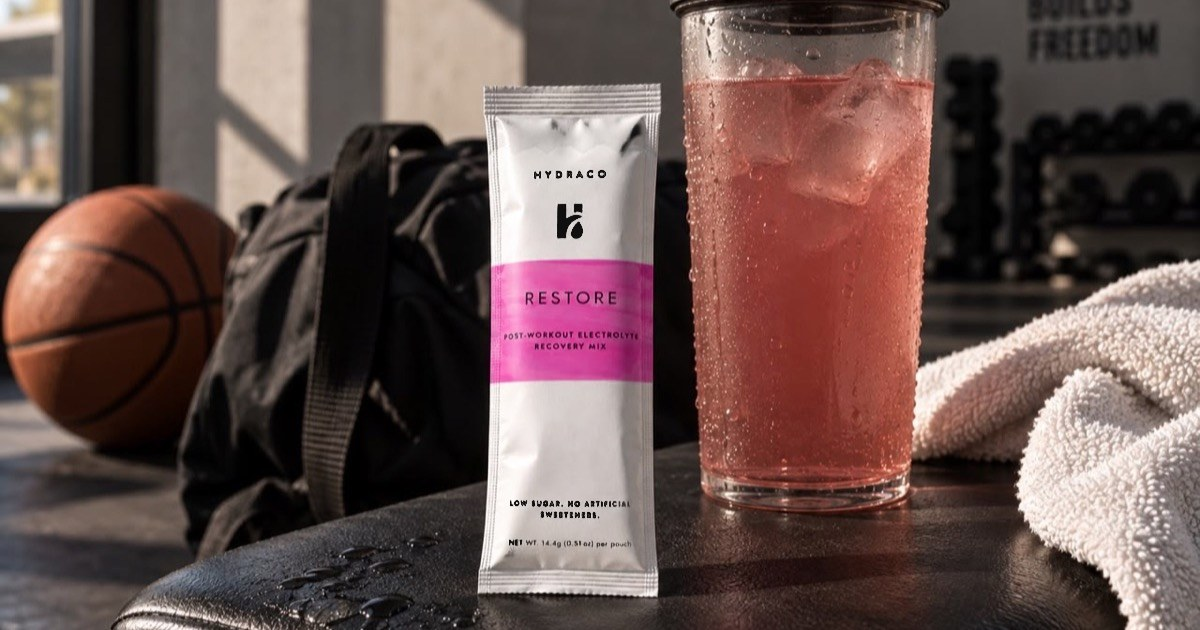
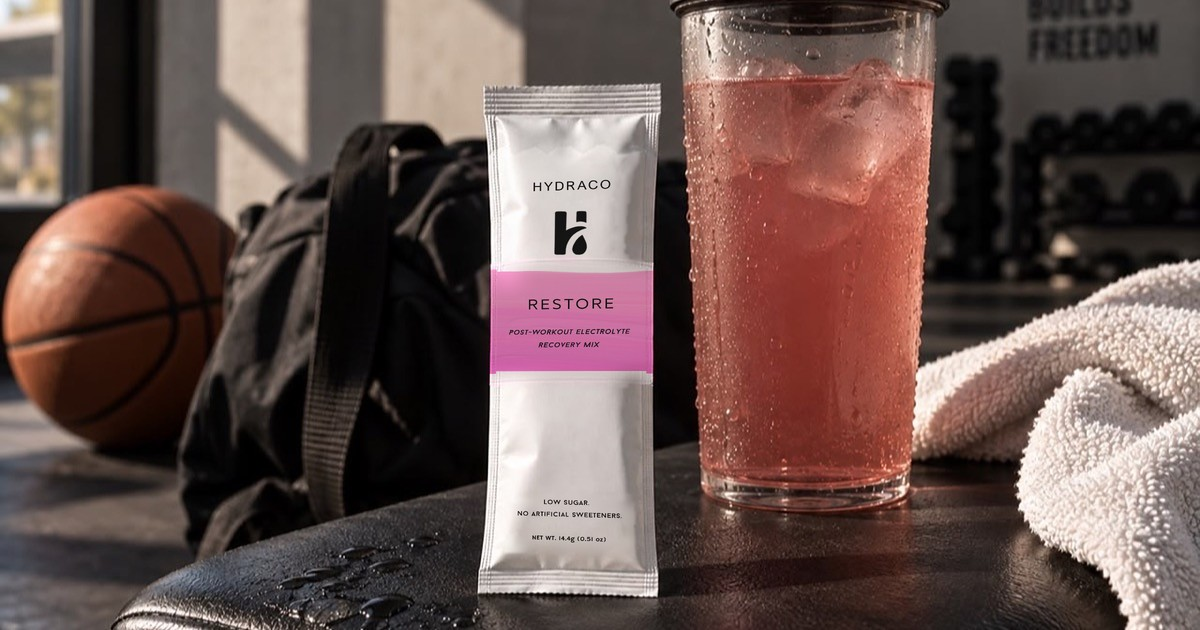
Sharp re-printed pack labels in photos; Order lands on packs and form
Re-print the new stick-pack label onto every pack in the product photos
from the high-res pack artwork (fitted to each pack's angle and lit by
the photo), saved at 2x so the type stays crisp on phones and Retina.
Move the order photo below the form and tighten the Order section so
the Order buttons land on the pack options and the fields to fill in.

Changed region(s): [[0.4008, 0.2714, 0.555, 0.6333], [0.4008, 0.7841, 0.555, 0.8746], [0.4933, 0.181, 0.555, 0.2714]]

diff --git a/index.html b/index.html
@@ -22,13 +22,13 @@
 <meta property="og:title" content="Hydraco Restore — Post-Workout Electrolyte Recovery Mix">
 <meta property="og:description" content="Hydraco Restore is a post-workout electrolyte recovery mix — low sugar, no artificial sweeteners, with tart cherry and pomegranate. Designed for recovery, not stimulation.">
 <meta property="og:url" content="https://www.drinkhydraco.com/">
-<meta property="og:image" content="https://www.drinkhydraco.com/images/og.jpg?v=pack2">
+<meta property="og:image" content="https://www.drinkhydraco.com/images/og.jpg?v=pack3">
 <meta property="og:image:width" content="1200">
 <meta property="og:image:height" content="630">
 <meta property="og:image:alt" content="A Hydraco Restore stick pack beside a glass of the prepared drink in a gym">
 <meta name="twitter:card" content="summary_large_image">
-<meta name="twitter:image" content="https://www.drinkhydraco.com/images/og.jpg?v=pack2">
-<script type="application/ld+json">[{"@context": "https://schema.org", "@type": "Organization", "name": "Hydraco", "url": "https://www.drinkhydraco.com/", "logo": "https://www.drinkhydraco.com/images/apple-touch-icon.png", "email": "hydracompanymd@gmail.com", "sameAs": ["https://www.instagram.com/hydracofficial"]}, {"@context": "https://schema.org", "@type": "Product", "name": "Hydraco Restore", "description": "Hydraco Restore is a post-workout electrolyte recovery mix — low sugar, no artificial sweeteners, with tart cherry and pomegranate. Designed for recovery, not stimulation.", "image": "https://www.drinkhydraco.com/images/og.jpg?v=pack2", "brand": {"@type": "Brand", "name": "Hydraco"}, "category": "Electrolyte drink mix", "offers": {"@type": "AggregateOffer", "priceCurrency": "USD", "lowPrice": "2.45", "highPrice": "89.55", "offerCount": 4, "availability": "https://schema.org/InStock", "url": "https://www.drinkhydraco.com/#order"}}, {"@context": "https://schema.org", "@type": "FAQPage", "mainEntity": [{"@type": "Question", "name": "How do I use it?", "acceptedAnswer": {"@type": "Answer", "text": "Pour one stick pack into 16–32 oz of cold water, shake or stir, and drink it after training. One stick is one serving."}}, {"@type": "Question", "name": "How do I pay?", "acceptedAnswer": {"@type": "Answer", "text": "By Zelle, Apple Cash, or card — pick one in the order form. Card and Apple Pay payments go through Stripe's secure checkout; we never see or store your card number."}}, {"@type": "Question", "name": "Where do you deliver, and what does it cost?", "acceptedAnswer": {"@type": "Answer", "text": "Delivery is free in NYC and in Maryland, D.C. and Virginia, within about an hour of our office. Anywhere else, including internationally, email us for a delivery quote before you order."}}, {"@type": "Question", "name": "When will my order arrive?", "acceptedAnswer": {"@type": "Answer", "text": "Usually within a few days. Restore is made in small batches and orders are filled in the order they come in; we email you to confirm your delivery date, usually within one business day."}}, {"@type": "Question", "name": "How should I store it?", "acceptedAnswer": {"@type": "Answer", "text": "In a cool, dry place. Best before January 2027."}}, {"@type": "Question", "name": "Is it safe for me?", "acceptedAnswer": {"@type": "Answer", "text": "It's a food, not a medicine. The full notice, allergen and cottage-food details are in the footer below."}}]}]</script>
+<meta name="twitter:image" content="https://www.drinkhydraco.com/images/og.jpg?v=pack3">
+<script type="application/ld+json">[{"@context": "https://schema.org", "@type": "Organization", "name": "Hydraco", "url": "https://www.drinkhydraco.com/", "logo": "https://www.drinkhydraco.com/images/apple-touch-icon.png", "email": "hydracompanymd@gmail.com", "sameAs": ["https://www.instagram.com/hydracofficial"]}, {"@context": "https://schema.org", "@type": "Product", "name": "Hydraco Restore", "description": "Hydraco Restore is a post-workout electrolyte recovery mix — low sugar, no artificial sweeteners, with tart cherry and pomegranate. Designed for recovery, not stimulation.", "image": "https://www.drinkhydraco.com/images/og.jpg?v=pack3", "brand": {"@type": "Brand", "name": "Hydraco"}, "category": "Electrolyte drink mix", "offers": {"@type": "AggregateOffer", "priceCurrency": "USD", "lowPrice": "2.45", "highPrice": "89.55", "offerCount": 4, "availability": "https://schema.org/InStock", "url": "https://www.drinkhydraco.com/#order"}}, {"@context": "https://schema.org", "@type": "FAQPage", "mainEntity": [{"@type": "Question", "name": "How do I use it?", "acceptedAnswer": {"@type": "Answer", "text": "Pour one stick pack into 16–32 oz of cold water, shake or stir, and drink it after training. One stick is one serving."}}, {"@type": "Question", "name": "How do I pay?", "acceptedAnswer": {"@type": "Answer", "text": "By Zelle, Apple Cash, or card — pick one in the order form. Card and Apple Pay payments go through Stripe's secure checkout; we never see or store your card number."}}, {"@type": "Question", "name": "Where do you deliver, and what does it cost?", "acceptedAnswer": {"@type": "Answer", "text": "Delivery is free in NYC and in Maryland, D.C. and Virginia, within about an hour of our office. Anywhere else, including internationally, email us for a delivery quote before you order."}}, {"@type": "Question", "name": "When will my order arrive?", "acceptedAnswer": {"@type": "Answer", "text": "Usually within a few days. Restore is made in small batches and orders are filled in the order they come in; we email you to confirm your delivery date, usually within one business day."}}, {"@type": "Question", "name": "How should I store it?", "acceptedAnswer": {"@type": "Answer", "text": "In a cool, dry place. Best before January 2027."}}, {"@type": "Question", "name": "Is it safe for me?", "acceptedAnswer": {"@type": "Answer", "text": "It's a food, not a medicine. The full notice, allergen and cottage-food details are in the footer below."}}]}]</script>
 <meta name="theme-color" content="#00a9ac">
 <link rel="preconnect" href="https://fonts.googleapis.com">
 <link rel="preconnect" href="https://fonts.gstatic.com" crossorigin>
@@ -2045,7 +2045,21 @@ body.fun-mode .galaxy-bg{opacity:1}
 
 /* ---------- order section: three packets, kept at their own portrait
    shape and a sane display width - not stretched into a wide crop ---------- */
-.preorder-photo{margin-bottom:clamp(44px,6vw,72px)}
+/* sits under the order form now, so Order lands straight on the packs + fields */
+/* "Order" links land on the heading, packs and form, not on empty padding:
+   skip the section's top padding, stopping just under the sticky nav */
+#order{scroll-margin-top:calc(18px - clamp(84px,11vw,168px))}
+.order .sec-head{gap:14px;margin-bottom:0;max-width:none;align-items:flex-start}
+.order .sec-head h2 br{display:none}
+.order .sec-head p{max-width:62ch;font-size:1.02rem !important;line-height:1.6 !important}
+.order .packs{margin-top:26px}
+.order .order-panel{margin-top:22px}
+@media (min-width:681px){
+  .order .pack-opt{padding:18px 20px 16px}
+  .order .pack-opt .price{margin-top:12px;font-size:1.6rem}
+  .order .member-head{margin-top:22px}
+}
+.preorder-photo{margin-top:clamp(44px,6vw,72px)}
 .preorder-photo img{max-width:340px;margin-inline:auto}
 
 </style>
@@ -2197,7 +2211,7 @@ body.fun-mode .galaxy-bg{opacity:1}
     </div>
 
     <div class="hero-photo rv">
-      <img src="/images/hero.webp?v=pack2" class="photo-frame" alt="HYDRACO Restore post-workout electrolyte recovery mix packet, standing beside a glass of the prepared drink" width="853" height="1280" fetchpriority="high">
+      <img src="/images/hero.webp?v=pack3" class="photo-frame" alt="HYDRACO Restore post-workout electrolyte recovery mix packet, standing beside a glass of the prepared drink" width="853" height="1280" fetchpriority="high">
     </div>
   </header>
 
@@ -2217,7 +2231,7 @@ body.fun-mode .galaxy-bg{opacity:1}
   <section id="why">
    <div class="why-grid">
     <div class="why-photo rv">
-      <img src="/images/why-recovery.webp?v=pack2" class="photo-frame" alt="HYDRACO Restore electrolyte recovery drink after training" loading="lazy" decoding="async" width="1280" height="853">
+      <img src="/images/why-recovery.webp?v=pack3" class="photo-frame" alt="HYDRACO Restore electrolyte recovery drink after training" loading="lazy" decoding="async" width="1280" height="853">
     </div>
     <div class="why-text rv">
     <div class="sec-head">
@@ -2255,7 +2269,7 @@ body.fun-mode .galaxy-bg{opacity:1}
 
   <!-- ============ GYM / RECOVERY BAND ============ -->
   <div class="gym-band rv" aria-label="HYDRACO Restore in a post-workout gym setting">
-    <img src="/images/gym-band.webp?v=pack2" alt="HYDRACO Restore electrolyte packet and drink in a post-workout gym setting" loading="lazy" decoding="async" width="1280" height="853">
+    <img src="/images/gym-band.webp?v=pack3" alt="HYDRACO Restore electrolyte packet and drink in a post-workout gym setting" loading="lazy" decoding="async" width="1280" height="853">
     <div class="gym-band-copy">
       <p>Built for the hours after, not the minutes during.</p>
     </div>
@@ -2470,8 +2484,8 @@ body.fun-mode .galaxy-bg{opacity:1}
         </div>
 
         <div class="inside-photos rv">
-          <img src="/images/inside-packet.webp?v=pack2" class="photo-frame" alt="HYDRACO Restore electrolyte packet beside a glass of the prepared electrolyte drink" loading="lazy" width="608" height="760">
-          <img src="/images/inside-pour.webp?v=pack2" class="photo-frame" alt="HYDRACO Restore electrolyte powder being poured into an iced drink" loading="lazy" width="760" height="506">
+          <img src="/images/inside-packet.webp?v=pack3" class="photo-frame" alt="HYDRACO Restore electrolyte packet beside a glass of the prepared electrolyte drink" loading="lazy" width="608" height="760">
+          <img src="/images/inside-pour.webp?v=pack3" class="photo-frame" alt="HYDRACO Restore electrolyte powder being poured into an iced drink" loading="lazy" width="760" height="506">
         </div>
       </div>
 
@@ -2721,10 +2735,6 @@ body.fun-mode .galaxy-bg{opacity:1}
         </p>
       </div>
 
-      <div class="preorder-photo rv">
-        <img src="/images/preorder.webp?v=pack2" class="photo-frame" alt="Three HYDRACO Restore electrolyte recovery mix packets" loading="lazy" width="720" height="900">
-      </div>
-
       <div class="packs" role="group" aria-label="Pack size">
         <button type="button" class="pack-opt" data-sticks="1"  data-unit="2.45" aria-pressed="false">
           <span class="flag">Sample</span>
@@ -2894,6 +2904,11 @@ body.fun-mode .galaxy-bg{opacity:1}
           </p>
         </aside>
       </form>
+
+      <div class="preorder-photo rv">
+        <img src="/images/preorder.webp?v=pack3" class="photo-frame" alt="Three HYDRACO Restore electrolyte recovery mix packets" loading="lazy" width="720" height="900">
+      </div>
+
     </div>
   </section>
 
